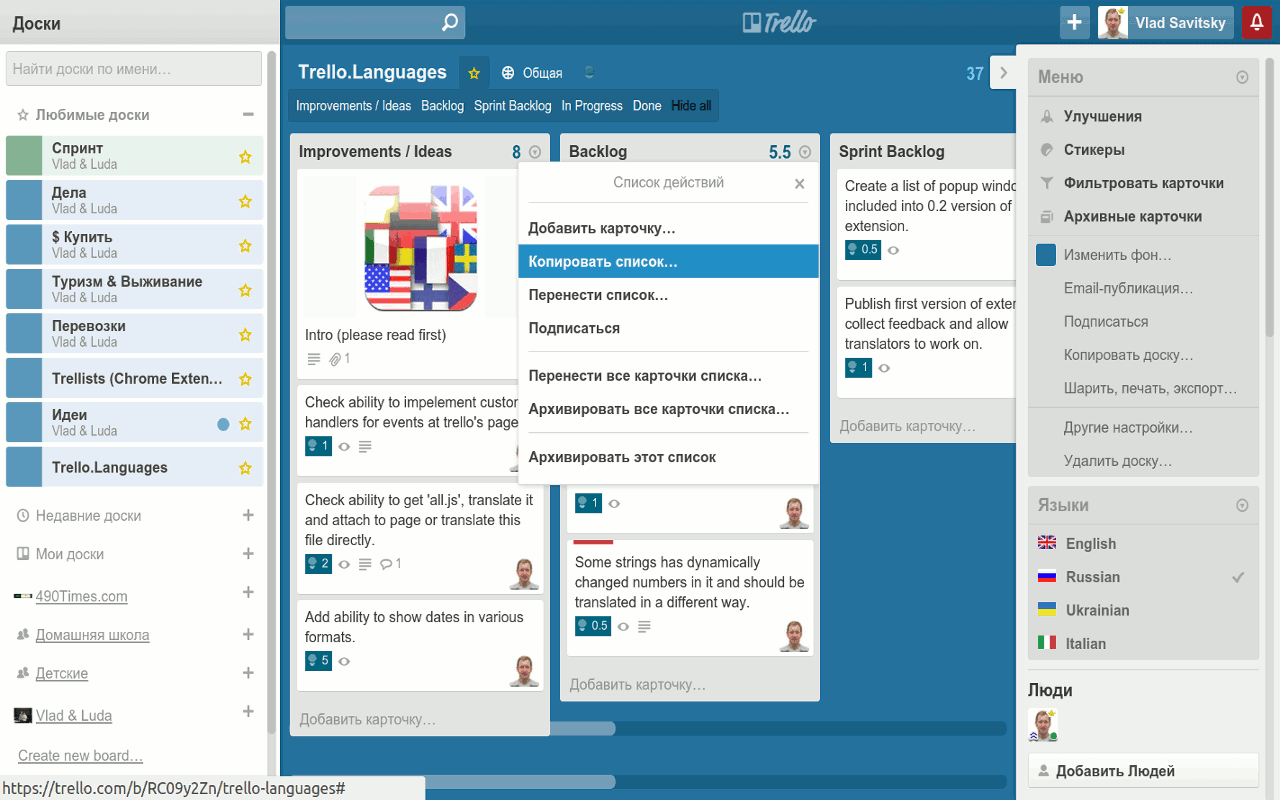
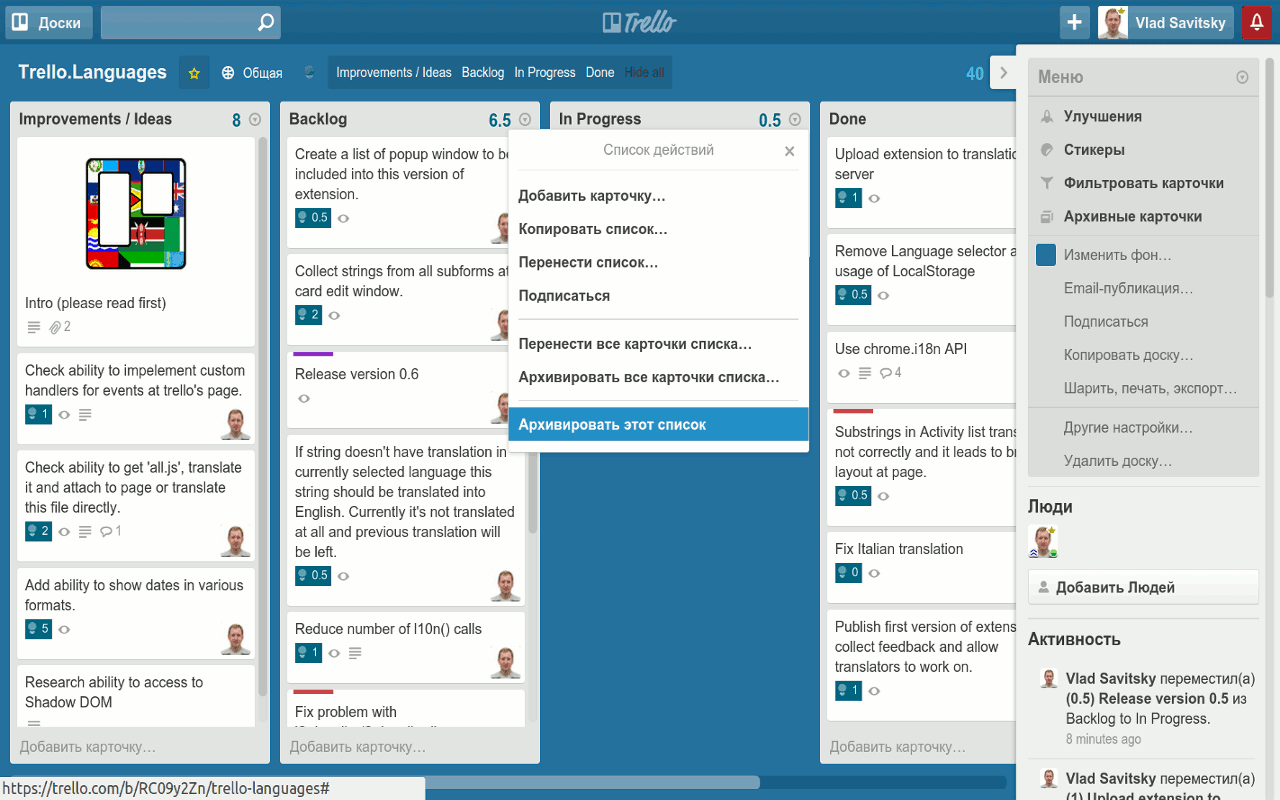
Updated information for translators in README.md. Updated screenshots. Added necessary changes to manifest to use Google Analytics.

diff --git a/README.md b/README.md
@@ -14,24 +14,11 @@ All translations stored in JSON files and any translator could translate them in
 Trello loads page elements using AJAX so we wait until element appears at page and then translate it.
 We translate values of HTML tags, tip (mostly 'title' attributes of A tags) and form elements.
 
-
 # How to translate trello.com into your language.
 
-## Using Online Editor.
-
-1. Open your favorite online JSON editor or http://www.jsoneditoronline.org/.
-2. Select 'Open/Open url' in top menu.
-3. Insert URL: https://raw.githubusercontent.com/VladSavitsky/trello.lanugages/master/locale/original.json
-4. Translate strings using 'original string' : 'translation' pattern. See https://github.com/VladSavitsky/trello.lanugages/blob/master/locale/ru.json
-5. If you're happy with translation - press 'Save'. File will be downloaded to your computer.
-6. Send translated file to vlad.savitsky@gmail.com. Thanks a lot! Your translation will be published with next version of extension and updated automatically at all computers.
-
-## Using your favorite editor at local computer.
-
-1. Download file https://raw.githubusercontent.com/VladSavitsky/trello.lanugages/master/locale/original.json
-2. Open this file in your favorite editor and translate it. For example, "Boards" : "place translation here".
-3. Save your changes (Ctrl + S or File/Save)
-4. Send translated file to vlad.savitsky@gmail.com. Thanks a lot! Your translation will be published with next version of extension and updated automatically at all computers.
+1. Open http://interpr.it/extension/34
+2. Log in (required to translate).
+3. Do your best!
 
 # Development
 
